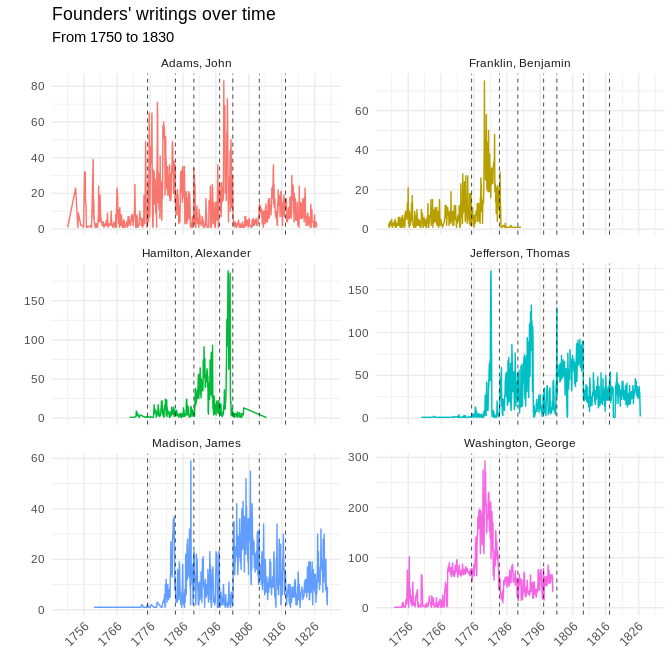
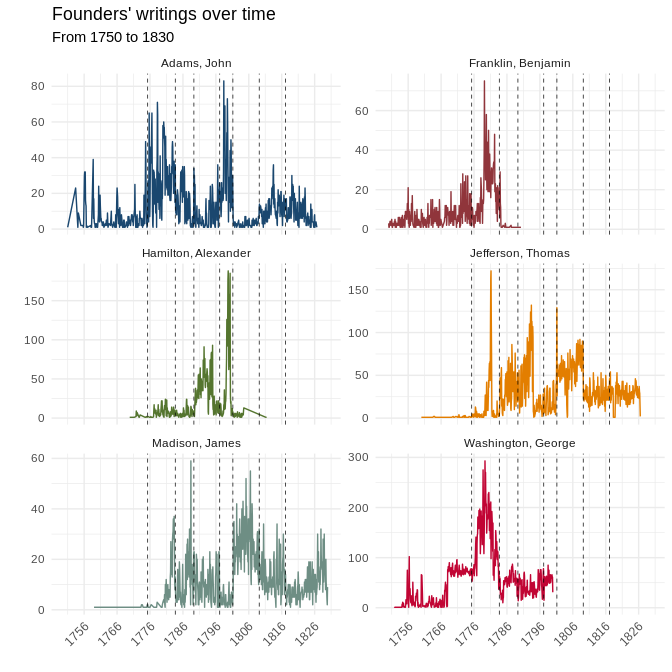
re

diff --git a/README.md b/README.md
@@ -31,18 +31,20 @@ gfiles <- list.files(path = local,
                      recursive = TRUE) 
 
 ffc <- lapply(gfiles, readRDS) %>% data.table::rbindlist()
-
-## Text tweaks --
-xx <- paste('>', gsub(' *(\n*) *$', '\\1', ffc$text[150681]))
 ```
 
-> Th: J. to Doctr. Franklyn Friday morn. \[21 June 1776?\] The inclosed
-> paper has been read and with some small alterations approved of by the
-> committee. Will Doctr. Franklyn be so good as to peruse it and suggest
-> such alterations as his more enlarged view of the subject will
-> dictate? The paper having been returned to me to change a particular
-> sentiment or two, I propose laying it again before the committee
-> tomorrow morning, if Doctr. Franklyn can think of it before that time.
+``` r
+xx <- gsub(' *\n', '  \n', ffc$og_text[150681])
+xx <- gsub('( *\n){2,}', '\n\n> ', xx)
+xx <- paste('>', gsub(' *(\n*) *$', '\\1', xx))
+#yy <- paste('>', gsub(' *(\n*) *$', '\\1', ffc$text[150681]))
+```
+
+>                         Th: J. to Doctr. Franklyn  
+>
+> Friday morn. \[21 June 1776?\]
+
+>                     The inclosed paper has been read and with some small alterations approved of by the committee. Will Doctr. Franklyn be so good as to peruse it and suggest such alterations as his more enlarged view of the subject will dictate? The paper having been returned to me to change a particular sentiment or two, I propose laying it again before the committee tomorrow morning, if Doctr. Franklyn can think of it before that time.
 
 Perhaps a `to_letter` function. Nicely formatted as letter.
 
@@ -107,7 +109,7 @@ by_year %>%
   labs(title = "Monthly writings")
 ```
 
-![](README_files/figure-markdown_github/unnamed-chunk-6-1.png)
+![](README_files/figure-markdown_github/unnamed-chunk-7-1.png)
 
 We need to figure out date stuff below – in ggplot –
 
@@ -135,6 +137,7 @@ x1 %>%
              size = .25) +
   
   theme_minimal() +
+  ggthemes::scale_color_stata() +
   theme(legend.position="none",
         axis.text.x = element_text(angle = 45, hjust = 1))+
   ylab ("") + xlab("") +
@@ -147,6 +150,6 @@ x1 %>%
        subtitle = 'From 1750 to 1830')
 ```
 
-![](README_files/figure-markdown_github/unnamed-chunk-8-1.png)
+![](README_files/figure-markdown_github/unnamed-chunk-9-1.png)
 
 ### General thoughts:
